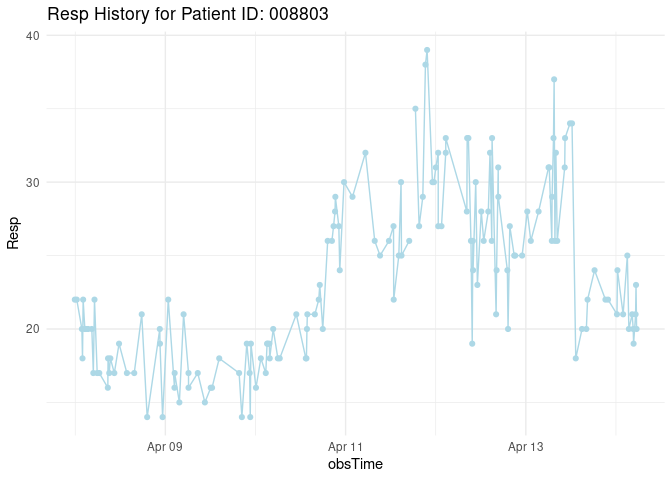
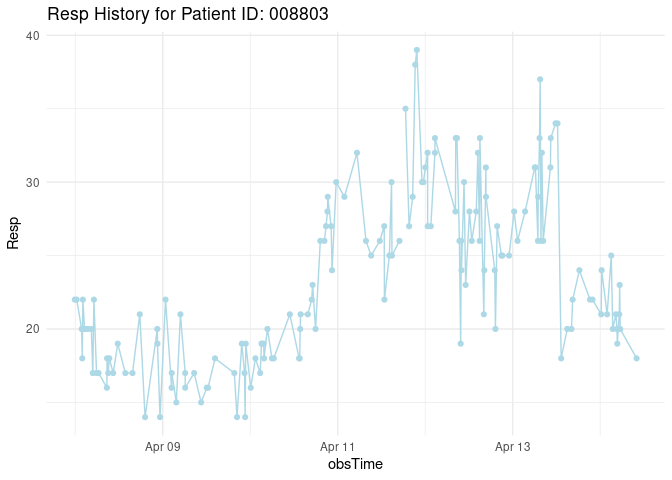
Updated report

diff --git a/sepsis_v2.md b/sepsis_v2.md
@@ -10,7 +10,7 @@ Sepsis Assignment
 
 #### The date and time of the report
 
-    Hello! The last time the report was run: 2023-04-14 09:14:35
+    Hello! The last time the report was run: 2023-04-14 10:15:57
 
 #### Recent heart rate, temperature, and respiratory rate for patients who currently have sepsis
 
@@ -32,7 +32,7 @@ table1
 |:-----------|-----------:|------:|------------:|:--------------------|
 | 000714     |         84 |    NA |          19 | 2023-04-08 17:48:46 |
 | 001948     |         84 |    NA |          25 | 2023-04-08 22:43:12 |
-| 008803     |         79 |    NA |          20 | 2023-04-14 05:30:00 |
+| 008803     |         74 | 37.28 |          18 | 2023-04-14 09:59:22 |
 | 009433     |         94 | 38.44 |          34 | 2023-04-10 09:36:59 |
 
 #### Plots for all patients who have sepsis that show the complete history of their heart rate, temperature, and respiratory rate during their time in the ICU.
@@ -215,7 +215,7 @@ mutate(prev_HR = lag(HR, order_by = obsTime),
 | 008574    |        NA |          NA |          NA |
 | 008614    |        -1 |          NA |           3 |
 | 008614    |        NA |          NA |          NA |
-| 008803    |         2 |          NA |          -3 |
+| 008803    |        -5 |          NA |          -2 |
 | 008803    |        NA |          NA |          NA |
 | 008882    |        -2 |          NA |           1 |
 | 008882    |        NA |          NA |          NA |
